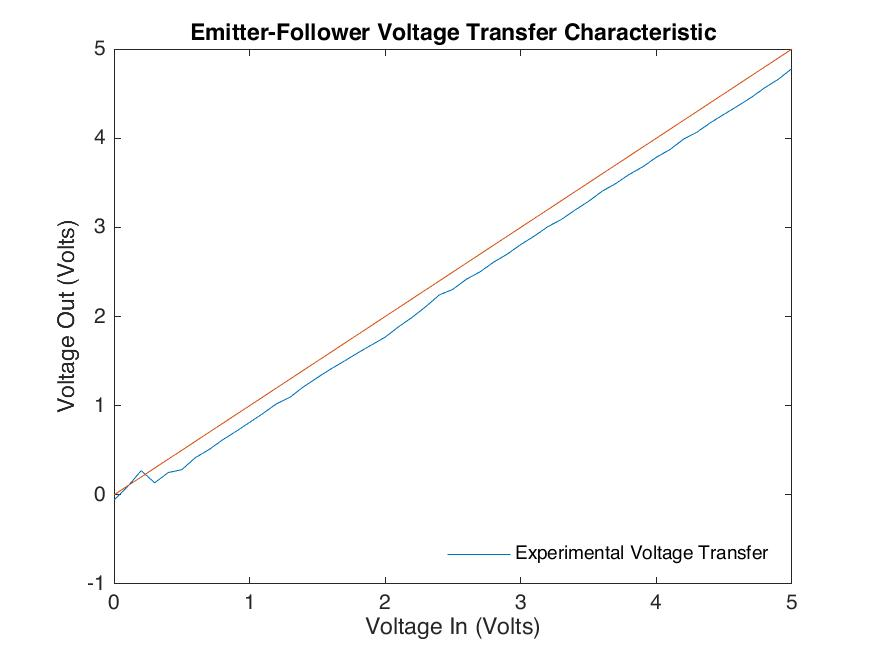
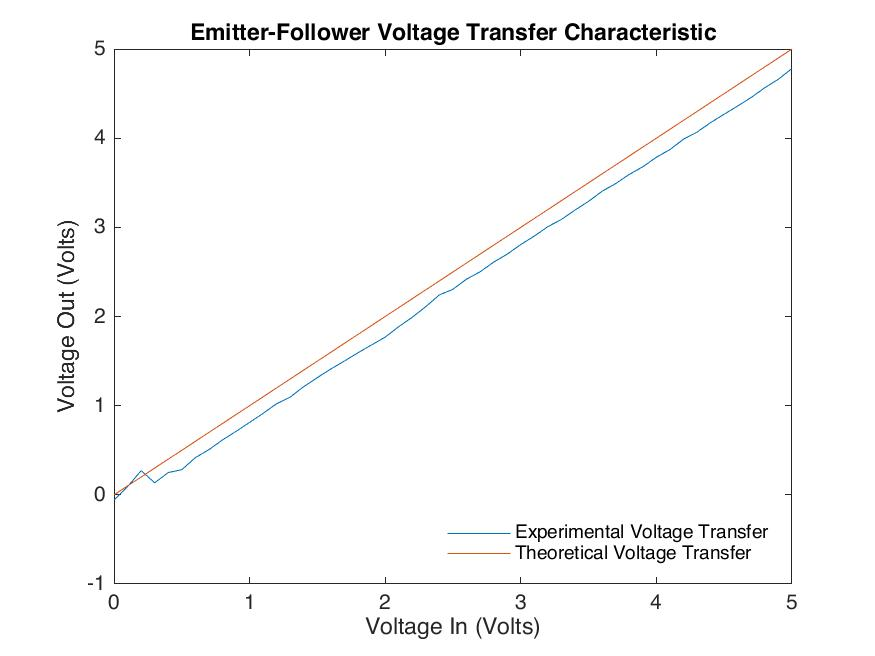
experiment 3

Changed region(s): [[0.5246, 0.7927, 0.8949, 0.8537]]

diff --git a/Lab_3_Resistors_and_Bipolar_Transistors/experiment_three.m b/Lab_3_Resistors_and_Bipolar_Transistors/experiment_three.m
@@ -3,13 +3,13 @@ load('collected_data.mat');
 % Voltage Transfer Characteristic.
 plot(Vin_Exp3, Vout_Exp3);
 hold on;
-plot(Vin_Exp3, Vinsm_Exp3);
+plot(Vin_Exp3, Vin_Exp3);
 
 title( "Emitter-Follower Voltage Transfer Characteristic");
 ylabel("Voltage Out (Volts)");
 xlabel("Voltage In (Volts)");
 
-legend('Experimental Voltage Transfer');
+legend('Experimental Voltage Transfer', 'Theoretical Voltage Transfer');
 legend('boxoff')
 legend('Location','southeast')
 
